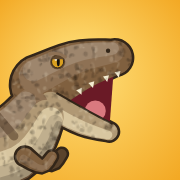
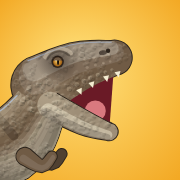
More realistic dinosaurs: natural colours, sculpted shading, skin detail and dinosaur leg anatomy
Claude-Session: https://claude.ai/code/session_01VZZ5QiPWKQFCNGsoWHmeoG

Changed region(s): [[0.0, 0.1944, 0.75, 1.0]]

diff --git a/index.html b/index.html
@@ -393,6 +393,13 @@ function pose(sp, a) {
     let fx = L.hip[0] + L.fo + Math.cos(ph) * L.stride * a.amp, fy = -Math.max(0, -Math.sin(ph)) * L.lift * a.amp - L.r[2];
     if (kck && L.hip[0] > hipx + 4) { fx += kck * 38; fy -= kck * 34; }
     if (a.held) { fx = L.hip[0] + L.fo + Math.sin(a.time * 10 + L.ph) * 8; fy = 5 - L.r[2]; }
+    if (SHADE3D && sp.near.length === 1 && !a.held && !sp.fly) {
+      const mt = L.l2 * 0.62, ax = fx - mt * 0.4, ay = fy - mt * 0.9, kk = ik(L.hip[0], hy2, L.l1 * 0.92, L.l2 * 0.8, ax, ay, L.bend);
+      return {
+        limb: catmull([[L.hip[0], hy2, L.r[0] * 1.18], [kk[0], kk[1], L.r[1] * 0.95], [kk[2], kk[3], L.r[2] * 0.72], [fx, fy, L.r[2] * 0.62]], 4),
+        foot: [[fx, fy, L.r[2] * 0.62], [fx + L.foot * 0.85, fy + L.r[2] * 0.3, L.r[2] * 0.42]]
+      };
+    }
     const k = ik(L.hip[0], hy2, L.l1, L.l2, fx, fy, L.bend);
     return {
       limb: catmull([[L.hip[0], hy2, L.r[0]], [k[0], k[1], L.r[1]], [k[2], k[3], L.r[2]]], 4),
@@ -413,7 +420,102 @@ function mix(h1, h2, t) { const a = parseInt(h1.slice(1), 16), b = parseInt(h2.s
 // a small tile of mottled speckles, stamped over the skin when a dinosaur is big enough on screen to show it
 const skinTex = (() => { const c = document.createElement('canvas'); c.width = c.height = 72; const x = c.getContext('2d'), R = mulberry(9); for (let i = 0; i < 250; i++) { x.fillStyle = R() < 0.62 ? 'rgba(20,14,8,' + (0.1 + R() * 0.17) + ')' : 'rgba(255,248,225,' + (0.08 + R() * 0.12) + ')'; x.beginPath(); x.ellipse(R() * 72, R() * 72, 0.8 + R() * 2.2, 0.6 + R() * 1.6, R() * 3, 0, TAU); x.fill(); } return c; })();
 const skinPat = new WeakMap();
+/* sculpted look: soft rounded light and shadow across every body part, a cool rim light, shadow where limbs meet the body, and embossed scales */
+let SHADE3D = true;
+const scaleTex = (() => { const c = document.createElement('canvas'); c.width = c.height = 56; const x = c.getContext('2d'), R = mulberry(21);
+  for (let i = 0; i < 160; i++) { const px = R() * 56, py = R() * 56, r = 1.1 + R() * 1.3; for (const [dx, dy] of [[0, 0], [56, 0], [-56, 0], [0, 56], [0, -56]]) { x.beginPath(); x.arc(px + dx, py + dy, r, Math.PI * 0.85, Math.PI * 1.85); x.strokeStyle = 'rgba(255,250,230,.16)'; x.lineWidth = 0.9; x.stroke(); x.beginPath(); x.arc(px + dx, py + dy, r, Math.PI * 1.85, Math.PI * 2.85); x.strokeStyle = 'rgba(15,10,6,.18)'; x.stroke(); } }
+  return c; })();
+const scalePat = new WeakMap();
+function offT(d, k, rk, i0 = 0, i1 = d.length) { const out = []; for (let i = i0; i < i1; i++) { const p = d[i], nn = nrm(d, i); out.push([p[0] + nn[0] * p[2] * k, p[1] + nn[1] * p[2] * k, Math.max(0.5, p[2] * rk)]); } return out; }
+function softVolume(ctx, t, top, i0 = 0) {   // layered translucent bands: bright on the lit side, deep shadow on the far side
+  if (t.length < 3) return;
+  for (let b = 0; b < 12; b++) {
+    const k = -0.94 + b * (1.88 / 11), lt = Math.pow(Math.max(0, -k - 0.05), 1.3) * 0.26, dk = Math.pow(Math.max(0, k - 0.1), 1.25) * 0.3;
+    if (lt > 0.01) fillTubes(ctx, [offT(t, top ? k : -k, 0.17, i0)], 0, 'rgba(255,244,214,' + lt.toFixed(3) + ')');
+    if (dk > 0.01) fillTubes(ctx, [offT(t, top ? k : -k, 0.17, i0)], 0, 'rgba(16,11,7,' + dk.toFixed(3) + ')');
+  }
+}
+function rimLight(ctx, t, i0, i1, w, col) { ctx.beginPath(); for (let i = i0; i < i1; i++) { const p = t[i], nn = nrm(t, i), x = p[0] - nn[0] * p[2] * 0.93, y = p[1] - nn[1] * p[2] * 0.93; i > i0 ? ctx.lineTo(x, y) : ctx.moveTo(x, y); } ctx.strokeStyle = col; ctx.lineWidth = w; ctx.lineCap = 'round'; ctx.lineJoin = 'round'; ctx.stroke(); }
+function fold(ctx, p, nn, k0, k1, r, bend, w) {   // one skin crease across a body part, pressed in with a pale edge beside it
+  const tx = nn[1], ty = -nn[0], x0 = p[0] + nn[0] * r * k0, y0 = p[1] + nn[1] * r * k0, x1 = p[0] + nn[0] * r * k1, y1 = p[1] + nn[1] * r * k1, mx = (x0 + x1) / 2 + tx * r * bend, my = (y0 + y1) / 2 + ty * r * bend;
+  ctx.lineCap = 'round'; ctx.lineWidth = w;
+  ctx.strokeStyle = 'rgba(20,13,8,.28)'; ctx.beginPath(); ctx.moveTo(x0, y0); ctx.quadraticCurveTo(mx, my, x1, y1); ctx.stroke();
+  ctx.strokeStyle = 'rgba(255,240,210,.16)'; ctx.beginPath(); ctx.moveTo(x0 + tx * w * 1.3, y0 + ty * w * 1.3); ctx.quadraticCurveTo(mx + tx * w * 1.3, my + ty * w * 1.3, x1 + tx * w * 1.3, y1 + ty * w * 1.3); ctx.stroke();
+}
+function drawClaws(ctx, legs) {
+  for (const L of legs) { const f = L.foot[1], r = f[2];
+    for (let k = 0; k < 3; k++) { const x = f[0] + r * 0.82 - k * r * 0.6, y = f[1] + r * 0.45; ctx.beginPath(); ctx.moveTo(x - r * 0.2, y - r * 0.16); ctx.quadraticCurveTo(x + r * 0.32, y - r * 0.08, x + r * 0.42, y + r * 0.42); ctx.quadraticCurveTo(x + r * 0.05, y + r * 0.3, x - r * 0.14, y + r * 0.22); ctx.closePath(); ctx.fillStyle = '#2b241d'; ctx.fill(); ctx.strokeStyle = 'rgba(255,240,220,.35)'; ctx.lineWidth = Math.max(0.5, r * 0.06); ctx.beginPath(); ctx.moveTo(x - r * 0.08, y - r * 0.1); ctx.quadraticCurveTo(x + r * 0.22, y - r * 0.04, x + r * 0.3, y + r * 0.22); ctx.stroke(); } }
+}
+function sculptDetail(ctx, sp, g, a) {
+  const d = g.dense, n = d.length, tN = Math.min(n - 1, (sp.tailN || 3) * 6), nN = Math.min(n - 1, sp.neck * 6), sk = g.skullD, jw = g.jawD;
+  if (a.fine === false) return;
+  // creases: rings round the neck, folds under the belly and at the base of the tail
+  ctx.save(); ctx.beginPath(); tube(ctx, d, 0); ctx.clip();
+  let rMax = 0; for (const q of d) rMax = Math.max(rMax, q[2]);
+  for (let i = Math.max(nN - 4, 1); i < n - 3; i += 2) { const p = d[i], r = p[2]; if (r < 2.5 || r > rMax * 0.62) continue; fold(ctx, p, nrm(d, i), -0.35, 0.95, r, 0.18, Math.max(0.5, r * 0.05)); }
+  for (let i = Math.round(tN + (nN - tN) * 0.25); i < nN; i += 4) { const p = d[i], r = p[2]; if (r < 3) continue; fold(ctx, p, nrm(d, i), 0.6, 0.98, r, -0.25, Math.max(0.5, r * 0.035)); }
+  for (let i = Math.max(1, tN - 6); i < tN + 2; i += 3) { const p = d[i], r = p[2]; if (r < 2.5 || r > rMax * 0.5) continue; fold(ctx, p, nrm(d, i), -0.7, 0.9, r, 0.22, Math.max(0.5, r * 0.035)); }
+  ctx.restore();
+  // a row of bony scutes along the spine
+  if (!sp.swim) for (let i = Math.round(tN * 0.4); i < n - 2; i += 3) {
+    const p = d[i], r = p[2], nn = nrm(d, i), sz = clamp(r * 0.055, 0.6, 2.2); if (r < 3) continue;
+    const x = p[0] - nn[0] * r * 0.9, y = p[1] - nn[1] * r * 0.9, gr = ctx.createRadialGradient(x - sz * 0.3, y - sz * 0.4, 0, x, y, sz * 1.2);
+    gr.addColorStop(0, 'rgba(255,246,225,.22)'); gr.addColorStop(0.6, 'rgba(90,70,45,.12)'); gr.addColorStop(1, 'rgba(20,14,8,.3)'); ctx.fillStyle = gr; ctx.beginPath(); ctx.ellipse(x, y, sz * 1.25, sz, Math.atan2(nn[0], -nn[1]), 0, TAU); ctx.fill();
+  }
+  // head: jaw muscle, sunken eye socket with a brow ridge, nostril, and a row of lip scales
+  const e = g.H(sp.eye[0], sp.eye[1]), er = sp.eye[2] * g.hk * (a.eyeK || 1);
+  ctx.save(); ctx.beginPath(); tube(ctx, sk, 0); tube(ctx, jw, 0); ctx.clip();
+  const h = g.Hh, hr = sk[Math.floor(sk.length * 0.25)][2], jm = ctx.createRadialGradient(h[0] + hr * 0.2, h[1] - hr * 0.3, 0, h[0], h[1], hr * 1.3); jm.addColorStop(0, 'rgba(255,240,210,.2)'); jm.addColorStop(1, 'rgba(255,240,210,0)'); ctx.fillStyle = jm; ctx.fillRect(h[0] - hr * 1.4, h[1] - hr * 1.4, hr * 2.8, hr * 2.8);
+  const so = ctx.createRadialGradient(e[0], e[1], er * 0.6, e[0], e[1], er * 2.3); so.addColorStop(0, 'rgba(20,12,8,.35)'); so.addColorStop(1, 'rgba(20,12,8,0)'); ctx.fillStyle = so; ctx.fillRect(e[0] - er * 2.4, e[1] - er * 2.4, er * 4.8, er * 4.8);
+  ctx.lineCap = 'round'; ctx.lineWidth = Math.max(0.8, er * 0.45); ctx.strokeStyle = 'rgba(255,240,210,.32)'; ctx.beginPath(); ctx.arc(e[0] + er * 0.2, e[1] + er * 0.3, er * 1.75, Math.PI * 1.15, Math.PI * 1.75); ctx.stroke();
+  ctx.lineWidth = Math.max(0.6, er * 0.25); ctx.strokeStyle = 'rgba(20,12,8,.3)'; ctx.beginPath(); ctx.arc(e[0] + er * 0.2, e[1] + er * 0.3, er * 1.45, Math.PI * 1.15, Math.PI * 1.75); ctx.stroke();
+  const ln = sk.length, tip = sk[ln - 2], tn = nrm(sk, ln - 2), nx = tip[0] - tn[0] * tip[2] * 0.4 - tn[1] * tip[2] * 0.3, ny = tip[1] - tn[1] * tip[2] * 0.4 + tn[0] * tip[2] * 0.3;
+  ctx.fillStyle = 'rgba(20,12,8,.5)'; ctx.beginPath(); ctx.ellipse(nx, ny, Math.max(0.6, tip[2] * 0.22), Math.max(0.4, tip[2] * 0.13), Math.atan2(tn[0], -tn[1]), 0, TAU); ctx.fill();
+  for (let i = Math.floor(ln * 0.3); i < ln - 1; i += 1) { const p = sk[i], nn = nrm(sk, i), x = p[0] + nn[0] * p[2] * 0.62, y = p[1] + nn[1] * p[2] * 0.62, sz = Math.max(0.5, p[2] * 0.09); ctx.fillStyle = 'rgba(255,240,210,.22)'; circ(ctx, x, y, sz); ctx.fill(); ctx.fillStyle = 'rgba(20,12,8,.22)'; circ(ctx, x + sz * 0.5, y + sz * 0.5, sz * 0.7); ctx.fill(); }
+  for (let i = Math.floor(ln * 0.55); i < ln - 1; i += 1) { const p = sk[i], nn = nrm(sk, i); for (const k of [-0.2, 0.15]) { const x = p[0] + nn[0] * p[2] * k, y = p[1] + nn[1] * p[2] * k, sz = Math.max(0.4, p[2] * 0.07); ctx.fillStyle = 'rgba(255,240,210,.18)'; circ(ctx, x, y, sz); ctx.fill(); } }
+  ctx.restore();
+}
+function sculptBody(ctx, sp, g, a) {
+  const d = g.dense, n = d.length, sk = g.skullD, jw = g.jawD;
+  ctx.save(); ctx.beginPath(); tube(ctx, d, 0); ctx.clip();
+  softVolume(ctx, d, true, Math.floor(n * 0.02));
+  for (const L of g.near) { const h = L.limb[0], r = Math.max(6, h[2] * 1.5), gr = ctx.createRadialGradient(h[0], h[1] + r * 0.2, r * 0.2, h[0], h[1] + r * 0.2, r * 1.3); gr.addColorStop(0, 'rgba(15,10,6,.22)'); gr.addColorStop(1, 'rgba(15,10,6,0)'); ctx.fillStyle = gr; ctx.fillRect(h[0] - r * 1.4, h[1] - r * 1.2, r * 2.8, r * 2.8); }
+  if (a.tex) { let p = scalePat.get(ctx); if (!p) { p = ctx.createPattern(scaleTex, 'repeat'); scalePat.set(ctx, p); } const b = sp.box; ctx.fillStyle = p; ctx.fillRect(b[0] - 260, b[1] - 260, b[2] - b[0] + 520, b[3] - b[1] + 520); }
+  fillTubes(ctx, [offT(d, -0.62, 0.1, Math.floor(n * 0.3), Math.floor(n * 0.7))], 0, 'rgba(255,255,255,.1)');   // a soft sheen along the back
+  rimLight(ctx, d, Math.floor(n * 0.04), n, Math.max(1.2, a.ow * 0.9), 'rgba(185,215,255,.55)');
+  ctx.restore();
+  ctx.save(); ctx.beginPath(); tube(ctx, sk, 0); tube(ctx, jw, 0); ctx.clip();
+  fillTubes(ctx, [offT(sk, -0.7, 0.32), offT(sk, -0.48, 0.3)], 0, 'rgba(255,246,220,.12)'); fillTubes(ctx, [offT(jw, 0.7, 0.4)], 0, 'rgba(18,12,8,.2)');
+  if (a.tex) { ctx.fillStyle = scalePat.get(ctx) || ctx.createPattern(scaleTex, 'repeat'); const b = sp.box; ctx.fillRect(b[0] - 260, b[1] - 260, b[2] - b[0] + 520, b[3] - b[1] + 520); }
+  rimLight(ctx, sk, 0, sk.length, Math.max(1, a.ow * 0.8), 'rgba(185,215,255,.5)');
+  ctx.restore();
+  sculptDetail(ctx, sp, g, a);
+}
+function sculptLimbs(ctx, sp, g, a, list) {
+  for (const L of list) {
+    ctx.save(); ctx.beginPath(); tube(ctx, L.limb, 0); tube(ctx, L.foot, 0); ctx.clip();
+    softVolume(ctx, L.limb, false);
+    const t = L.limb[1] || L.limb[0], gr = ctx.createRadialGradient(t[0] - t[2] * 0.3, t[1] - t[2] * 0.4, 0, t[0], t[1], t[2] * 1.6); gr.addColorStop(0, 'rgba(255,246,220,.18)'); gr.addColorStop(1, 'rgba(255,246,220,0)'); ctx.fillStyle = gr; ctx.beginPath(); ctx.arc(t[0], t[1], t[2] * 1.6, 0, TAU); ctx.fill();   // the round of the thigh muscle
+    if (a.fine !== false) { const lb = L.limb, m = Math.floor(lb.length / 2); for (const i of [m - 1, m, m + 1, lb.length - 2, lb.length - 1]) { const q = lb[Math.max(0, Math.min(lb.length - 1, i))]; fold(ctx, q, nrm(lb, Math.max(0, Math.min(lb.length - 1, i))), -0.85, 0.85, q[2], 0.25, Math.max(0.5, q[2] * 0.07)); }
+      const t0 = lb[0], t1 = lb[m]; ctx.strokeStyle = 'rgba(20,13,8,.22)'; ctx.lineWidth = Math.max(0.6, t0[2] * 0.06); ctx.beginPath(); ctx.moveTo(t0[0] + t0[2] * 0.3, t0[1] - t0[2] * 0.4); ctx.quadraticCurveTo((t0[0] + t1[0]) / 2 + t0[2] * 0.55, (t0[1] + t1[1]) / 2, t1[0] + t1[2] * 0.2, t1[1] - t1[2] * 0.2); ctx.stroke(); }
+    const f = L.foot[0], fg = ctx.createLinearGradient(0, f[1] - f[2], 0, f[1] + f[2]); fg.addColorStop(0, 'rgba(18,12,8,0)'); fg.addColorStop(1, 'rgba(18,12,8,.25)'); ctx.fillStyle = fg; ctx.fillRect(f[0] - f[2] * 3, f[1] - f[2], f[2] * 6, f[2] * 2.2);
+    if (a.tex) { ctx.fillStyle = scalePat.get(ctx) || ctx.createPattern(scaleTex, 'repeat'); const b = sp.box; ctx.fillRect(b[0] - 260, b[1] - 260, b[2] - b[0] + 520, b[3] - b[1] + 520); }
+    ctx.restore();
+  }
+}
 function drawEye(ctx, x, y, r, a, sp) {
+  if (SHADE3D) {
+    r *= 0.5; const c = sp.c;
+    circ(ctx, x, y, r * 1.35); ctx.fillStyle = 'rgba(25,16,10,.75)'; ctx.fill();
+    if (a.blink) { ctx.strokeStyle = 'rgba(25,16,10,.9)'; ctx.lineWidth = Math.max(0.6, r * 0.25); ctx.beginPath(); ctx.moveTo(x - r, y); ctx.lineTo(x + r, y); ctx.stroke(); return; }
+    const ir = ctx.createRadialGradient(x - r * 0.25, y - r * 0.25, r * 0.1, x, y, r); ir.addColorStop(0, sp.fierce ? '#f2c25a' : '#c08a3c'); ir.addColorStop(1, sp.fierce ? '#9a5a10' : '#5a3a1a');
+    circ(ctx, x, y, r); ctx.fillStyle = ir; ctx.fill();
+    const px = x + a.lx * r * 0.18, py = y + a.ly * r * 0.18; ctx.fillStyle = '#0c0907'; ctx.beginPath(); if (sp.fierce) ctx.ellipse(px, py, r * 0.2, r * 0.72, 0, 0, TAU); else ctx.arc(px, py, r * 0.42, 0, TAU); ctx.fill();
+    circ(ctx, x - r * 0.35, y - r * 0.35, r * 0.18); ctx.fillStyle = 'rgba(255,255,255,.85)'; ctx.fill();
+    ctx.beginPath(); ctx.arc(x, y, r * 1.06, Math.PI * (a.sad ? 0.98 : 1.08), Math.PI * (a.sad ? 2.02 : 1.92)); ctx.closePath(); ctx.fillStyle = c.base; ctx.fill();   // heavy upper lid
+    ctx.strokeStyle = 'rgba(25,16,10,.7)'; ctx.lineWidth = Math.max(0.5, r * 0.18); ctx.beginPath(); ctx.arc(x, y, r * 1.06, Math.PI * (a.sad ? 0.98 : 1.08), Math.PI * (a.sad ? 2.02 : 1.92)); ctx.stroke();
+    return;
+  }
   r *= 0.66; const c = sp.c;
   circ(ctx, x, y, r * 1.24); ctx.fillStyle = c.lo; ctx.fill();
   if (a.blink) { circ(ctx, x, y, r); ctx.fillStyle = c.lo; ctx.fill(); ctx.strokeStyle = c.line; ctx.lineWidth = Math.max(0.8, r * 0.2); ctx.beginPath(); ctx.moveTo(x - r * 0.9, y + r * 0.1); ctx.lineTo(x + r * 0.9, y + r * 0.1); ctx.stroke(); }
@@ -425,9 +527,16 @@ function drawEye(ctx, x, y, r, a, sp) {
   }
   ctx.lineCap = 'round'; ctx.strokeStyle = c.h1; ctx.lineWidth = r * 0.5; ctx.beginPath(); ctx.moveTo(x - r * 1.3, y - r * 1.25); ctx.quadraticCurveTo(x, y - r * 1.65, x + r * 1.25, y - r * (sp.fierce && !a.sad ? 0.8 : 1.15)); ctx.stroke();
 }
-function drawDino(ctx, sp, a) {
-  const c = sp.c; a.line = c.line; a.ow *= 0.8;
-  const g = pose(sp, a), ow = a.ow, soft = !Q, fine = soft && a.fine !== false;   // the finest shading layers are skipped when a dinosaur is small on screen
+const realCols = new WeakMap();
+function desat(col) {
+  let r, g, b; if (col[0] === '#') { const n = parseInt(col.slice(1), 16); r = n >> 16; g = n >> 8 & 255; b = n & 255; } else { const m = col.match(/[\d.]+/g); if (!m) return col; [r, g, b] = m.map(Number); }
+  const L = 0.3 * r + 0.59 * g + 0.11 * b, k = 0.3; r = (r + (L - r) * k) * 0.93; g = (g + (L - g) * k) * 0.93; b = (b + (L - b) * k) * 0.93; const h2 = v => Math.max(0, Math.min(255, Math.round(v))).toString(16).padStart(2, '0'); return '#' + h2(r) + h2(g) + h2(b);   // hex, so other colour helpers can keep mixing it
+}
+function realC(sp) { let o = realCols.get(sp); if (!o) { o = {}; for (const k in sp.c) o[k] = typeof sp.c[k] === 'string' ? desat(sp.c[k]) : sp.c[k]; realCols.set(sp, o); } return o; }
+function drawDino(ctx, sp, a) { if (!SHADE3D) return drawDino0(ctx, sp, a); const keep = sp.c; sp.c = realC(sp); try { drawDino0(ctx, sp, a); } finally { sp.c = keep; } }
+function drawDino0(ctx, sp, a) {
+  const c = sp.c; a.line = c.line; a.ow *= SHADE3D && a.fine !== false ? 0.3 : 0.8;   // sculpted bodies need only a fine edge
+  const g = pose(sp, a), ow = a.ow, soft = !Q || !!a.closeUp, fine = soft && a.fine !== false;   // close-ups always get full detail   // the finest shading layers are skipped when a dinosaur is small on screen
   const off = (d, k, rk, i0 = 0) => { const out = []; for (let i = i0; i < d.length; i++) { const p = d[i], nn = nrm(d, i); out.push([p[0] + nn[0] * p[2] * k, p[1] + nn[1] * p[2] * k, Math.max(0.6, p[2] * rk)]); } return out; };
   const far = []; for (const L of g.far) far.push(L.limb, L.foot);
   if (g.farArm) far.push(g.farArm);
@@ -445,10 +554,14 @@ function drawDino(ctx, sp, a) {
   fillTubes(ctx, [d], 0, c.base); headFill();
   // light from above: two soft bands along the back, a pale underside, and shadow where the body turns under
   const t0 = Math.floor(n * 0.07), b0 = Math.floor(n * (sp.belly0 || 0.1));
+  if (SHADE3D && fine) { ctx.save(); ctx.beginPath(); tube(ctx, d, 0); ctx.clip(); for (const [k, al] of [[0.18, 0.18], [0.3, 0.28], [0.42, 0.4], [0.55, 0.55], [0.68, 0.7], [0.82, 0.8], [0.95, 0.85]]) { ctx.globalAlpha = al; fillTubes(ctx, [off(d, k, 0.2, b0)], 0, c.belly); } ctx.globalAlpha = 1; ctx.restore(); }
+  else {
   if (soft) fillTubes(ctx, [off(d, -0.32, 0.6, t0)], 0, c.h1); if (fine) fillTubes(ctx, [off(d, -0.55, 0.36, t0)], 0, c.hi);
   fillTubes(ctx, [off(d, 0.36, 0.6, b0)], 0, c.mid); fillTubes(ctx, [off(d, 0.53, 0.43, b0)], 0, c.belly);
   if (fine) fillTubes(ctx, [off(d, 0.72, 0.27, b0)], 0, 'rgba(34,26,20,.13)'); if (soft) fillTubes(ctx, [off(d, 0.87, 0.14, b0)], 0, 'rgba(34,26,20,.2)');
+  }
   if (sp.marks) sp.marks(ctx, g, sp, a);
+  if (SHADE3D && fine) sculptBody(ctx, sp, g, a);
   if (sp.mid) { sp.mid(ctx, g, sp, a); fillTubes(ctx, [sk, jw], ow, c.line); mouthIn(); headFill(); }
   ctx.strokeStyle = c.line; ctx.lineWidth = Math.max(0.8, ow * 0.8); ctx.lineCap = 'round'; ctx.beginPath();
   for (let i = 0; i < jw.length; i++) { const p = jw[i], nn = nrm(jw, i), x = p[0] - nn[0] * p[2], y = p[1] - nn[1] * p[2]; i ? ctx.lineTo(x, y) : ctx.moveTo(x, y); }
@@ -465,11 +578,11 @@ function drawDino(ctx, sp, a) {
   const near = []; for (const L of g.near) near.push(L.limb, L.foot);
   if (near.length) {
     fillTubes(ctx, near, ow, c.line); fillTubes(ctx, near, 0, c.base);
-    if (soft) fillTubes(ctx, g.near.map(L => off(L.limb, 0.34, 0.44)), 0, c.h1); if (fine) fillTubes(ctx, g.near.map(L => off(L.limb, -0.6, 0.26)), 0, 'rgba(34,26,20,.16)');
-    ctx.fillStyle = '#3d352c';
-    for (const L of g.near) { const f = L.foot[1], r = f[2]; for (let k = 0; k < 3; k++) { circ(ctx, f[0] + r * 0.7 - k * r * 0.62, f[1] + r * 0.62, r * 0.2); ctx.fill(); } }
+    if (SHADE3D && fine) sculptLimbs(ctx, sp, g, a, g.near); else { if (soft) fillTubes(ctx, g.near.map(L => off(L.limb, 0.34, 0.44)), 0, c.h1); if (fine) fillTubes(ctx, g.near.map(L => off(L.limb, -0.6, 0.26)), 0, 'rgba(34,26,20,.16)'); }
+    if (SHADE3D && fine) drawClaws(ctx, g.near); else { ctx.fillStyle = '#3d352c';
+    for (const L of g.near) { const f = L.foot[1], r = f[2]; for (let k = 0; k < 3; k++) { circ(ctx, f[0] + r * 0.7 - k * r * 0.62, f[1] + r * 0.62, r * 0.2); ctx.fill(); } } }
   }
-  if (a.tex && soft) {
+  if (a.tex && soft && !(SHADE3D && fine)) {
     let p = skinPat.get(ctx); if (!p) { p = ctx.createPattern(skinTex, 'repeat'); skinPat.set(ctx, p); }
     ctx.save(); ctx.beginPath(); tube(ctx, d, 0); tube(ctx, sk, 0); tube(ctx, jw, 0); for (const t of near) tube(ctx, t, 0); if (g.arm) tube(ctx, g.arm, 0); ctx.clip();
     const b = sp.box; ctx.fillStyle = p; ctx.fillRect(b[0] - 260, b[1] - 260, b[2] - b[0] + 520, b[3] - b[1] + 520); ctx.restore();
@@ -2054,7 +2167,7 @@ function drawCareDino(x, G, mudA) {
   const n = needsOf(e); CA.time = c.t + e.seed; CA.walk = 0.9; CA.amp = 0; CA.jaw = c.jaw; CA.nod = c.nod; CA.pitch = c.pitch; CA.held = false; CA.flap = c.flap; CA.blink = c.blinkT < 0; CA.sad = !c.act && (n.hungry || n.bored || n.dirty || n.hurt || n.home);
   CA.headK = 1 + (1 - e.gk) * 0.6; CA.eyeK = 1 + (1 - e.gk) * 0.5; CA.ow = clamp(4.2 / s, 1.5, 9);
   let lx = 0.5, ly = 0; if (c.ptr) { const dx = c.ptr[0] - (G.ox + d.eye[0] * s), dy = c.ptr[1] - (G.oy + d.eye[1] * s), m = Math.hypot(dx, dy) || 1; lx = dx / m; ly = dy / m; } else if (c.food) { lx = 0.6; ly = 0.6; }
-  CA.lx = lx; CA.ly = ly; CA.tex = true; if (d.fly) x.translate(0, -16);
+  CA.lx = lx; CA.ly = ly; CA.tex = true; CA.closeUp = true; if (d.fly) x.translate(0, -16);
   drawDino(x, d, CA); if (e.bandT > 0) bandOn(x, G.box);
   if (x === octx) { const b = G.box, lg = x.createLinearGradient(0, b[1], 0, b[3]); lg.addColorStop(0, 'rgba(255,248,220,.2)'); lg.addColorStop(0.42, 'rgba(255,255,255,0)'); lg.addColorStop(1, 'rgba(24,16,30,.3)'); x.globalCompositeOperation = 'source-atop'; x.fillStyle = lg; x.fillRect(b[0] - 300, b[1] - 300, b[2] - b[0] + 600, b[3] - b[1] + 600); x.globalCompositeOperation = 'source-over'; }
   if (mudA > 0.02) { x.globalCompositeOperation = 'source-atop'; for (const m of c.mud) { x.fillStyle = 'rgba(104,72,40,' + (0.9 * mudA) + ')'; circ(x, m[0], m[1], m[2]); x.fill(); circ(x, m[0] + Math.cos(m[3]) * m[2] * 1.2, m[1] + Math.sin(m[3]) * m[2] * 0.9, m[2] * 0.45); x.fill(); x.fillStyle = 'rgba(70,46,24,' + (0.5 * mudA) + ')'; circ(x, m[0] + m[2] * 0.2, m[1] + m[2] * 0.25, m[2] * 0.5); x.fill(); } x.globalCompositeOperation = 'source-over'; }
@@ -2096,7 +2209,7 @@ homeBtn.addEventListener('click', () => {   // show the five habitats to choose 
 });
 envRow.querySelectorAll('button').forEach(b => b.addEventListener('click', () => {
   const c = care; if (!c) return; const e = c.e, pad = e.pad, env = b.dataset.env, G = careGeo(), mid = [G.ox + (G.box[0] + G.box[2]) / 2 * G.s, G.oy + (G.box[1] + G.box[3]) / 2 * G.s];
-  const before = pad.dinos.map(d => homeOk(d)); pad.env = env; dirty(); envRow.hidden = true; document.getElementById('careBar').hidden = false; paintHome();
+  const before = pad.dinos.map(d => homeOk(d)); pad.env = env; dirty(); envRow.hidden = true; document.getElementById('careBar').hidden = false; sizeCare();
   pad.dinos.forEach((d, i) => { if (!before[i] && homeOk(d)) d.needIn = gapOf(d); });
   cpuff(W / 2, H * 0.55, 'circle', 26, { cols: ['rgba(255,255,255,.9)', ENVS[env].pad], v0: 120, v1: 420, s0: 8, s1: 18, t0: 0.5, t1: 0.9, grow: 1, r: W * 0.3 });
   if (homeOk(e) && env === prefOf(e)) { c.hop = 0.45; sfx.grow(); say(e.def.name + ' loves the ' + ENVS[env].name.toLowerCase()); cpuff(mid[0], G.oy + G.box[1] * G.s, 'heart', 8, { col: '#f06292', an: -Math.PI / 2, spread: 1.6, v0: 80, v1: 170, s0: 14, s1: 22, t0: 1, t1: 1.6, r: 60 }); cpuff(mid[0], mid[1], 'star', 18, { cols: ['#ffd95a', '#fff6dc', '#ffb01f'], v0: 140, v1: 420, s0: 10, s1: 18, t0: 0.6, t1: 1.1 }); }
@@ -2421,7 +2534,7 @@ function drawFighter(x, F, sx) {
   const tl = F.tilt + F.lean * (F.flip < 0 ? -1 : 1);
   if (tl) { const py = d.swim || d.fly ? (F.box[1] + F.box[3]) / 2 : F.box[3]; x.translate(F.mid, py); x.rotate(tl); x.translate(-F.mid, -py); }
   DA.time = D.t + e.seed; DA.walk = F.walk; DA.amp = F.amp; DA.jaw = F.jaw; DA.nod = F.nod; DA.pitch = F.pitch; DA.held = false; DA.flap = F.flap; DA.blink = F.blinkT < 0 || F.asleep > 0; DA.sad = F.dizzy > 0 || F.asleep > 0 || F.hp <= HPMAX * 0.25 || !!F.e.hurt;
-  DA.headK = 1 + (1 - e.gk) * 0.6; DA.eyeK = 1 + (1 - e.gk) * 0.5; DA.ow = clamp(4.2 / s, 1.5, 9); DA.lx = 0.8; DA.ly = 0; DA.tex = true; DA.reach = F.reach; DA.swipe = F.swipe; DA.kick = F.kick; DA.tail = F.tail;
+  DA.headK = 1 + (1 - e.gk) * 0.6; DA.eyeK = 1 + (1 - e.gk) * 0.5; DA.ow = clamp(4.2 / s, 1.5, 9); DA.lx = 0.8; DA.ly = 0; DA.tex = true; DA.closeUp = true; DA.reach = F.reach; DA.swipe = F.swipe; DA.kick = F.kick; DA.tail = F.tail;
   if (d.fly) x.translate(0, -16);
   drawDino(x, d, DA); if (e.bandT > 0) bandOn(x, F.box);
   const b = F.box, lg = x.createLinearGradient(0, b[1], 0, b[3]); lg.addColorStop(0, 'rgba(255,248,220,.2)'); lg.addColorStop(0.42, 'rgba(255,255,255,0)'); lg.addColorStop(1, 'rgba(24,16,30,.3)');
@@ -2802,7 +2915,7 @@ function renderChase() {
   const dX = C.dx - cam, hop = !G.air && C.dv > W * 0.05 ? Math.abs(Math.sin(C.walk)) * 6 : 0, dY = G.gy - G.air - hop + (G.air ? Math.sin(C.t * 3) * 8 : 0);
   if (!G.air) { const w = (G.box[2] - G.box[0]) * G.ds; x.drawImage(shadowImg, dX - w * 0.55, G.gy - w * 0.12, w * 1.1, w * 0.28); }
   x.save(); x.translate(dX, dY); if (C.caught) x.rotate(Math.sin(C.t * 22) * 0.04); x.scale(G.ds, G.ds); x.translate(-G.mid, 0); if (C.d.fly) x.translate(0, -16);
-  Object.assign(CHA, { time: C.t + C.e.seed, walk: C.walk, amp: C.caught ? 0 : clamp(C.dv / (W * 0.25), 0, 1), jaw: C.jaw, nod: C.caught ? 0.2 : -0.05, pitch: 0, held: false, flap: C.flap, blink: false, lx: -0.8, ly: 0, sad: C.caught, headK: 1 + (1 - C.e.gk) * 0.6, eyeK: 1 + (1 - C.e.gk) * 0.5, ow: clamp(4 / G.ds, 1.5, 9), tex: true });
+  Object.assign(CHA, { time: C.t + C.e.seed, walk: C.walk, amp: C.caught ? 0 : clamp(C.dv / (W * 0.25), 0, 1), jaw: C.jaw, nod: C.caught ? 0.2 : -0.05, pitch: 0, held: false, flap: C.flap, blink: false, lx: -0.8, ly: 0, sad: C.caught, headK: 1 + (1 - C.e.gk) * 0.6, eyeK: 1 + (1 - C.e.gk) * 0.5, ow: clamp(4 / G.ds, 1.5, 9), tex: true, closeUp: true });
   drawDino(x, C.d, CHA); x.restore();
   // jeep with a ranger
   const jX = C.jx - cam; x.save(); x.translate(jX, G.gy + 2 - (C.jv > 20 ? Math.abs(Math.sin(C.wheel / 30)) * 2 : 0)); x.scale(G.js, G.js); drawThing(x, 'jeep', { ...A0, time: C.t, ow: clamp(3 / G.js, 2, 8), moving: C.jv > 20, cheer: 0, flare: 0, e: null }); x.restore();
@@ -2956,7 +3069,7 @@ function start(data) {
   document.addEventListener('visibilitychange', () => { if (document.hidden) { save(); if (pending && cloud) { cloudT = 0; cloudSave(); } } });
   window.addEventListener('pagehide', save);
 }
-window.__cc = { startEscape, openChase, throwNet, get chase() { return chase; }, set escT(v) { escT = v; }, get dig() { return dig; }, get unlocked() { return unlocked; }, openDig, isLocked, get duel() { return duel; }, get picking() { return picking; }, openDuel, duelDo, setPicking, pickFighter, closeDuel, get Q() { return Q; }, get sync() { return { cloud: !!cloud, pending, edits, stateTs, hadLocal }; }, get placing() { return placing; }, get care() { return care; }, openCare, careDo, objs, dinos, movers, foods, tiles, occ, cam, DEF, drawThing, A0, w2s, g2w, mpos, dpos, pbase, ocenter, serialize };
+window.__cc = { setShade: v => { SHADE3D = !!v; }, get shade() { return SHADE3D; }, startEscape, openChase, throwNet, get chase() { return chase; }, set escT(v) { escT = v; }, get dig() { return dig; }, get unlocked() { return unlocked; }, openDig, isLocked, get duel() { return duel; }, get picking() { return picking; }, openDuel, duelDo, setPicking, pickFighter, closeDuel, get Q() { return Q; }, get sync() { return { cloud: !!cloud, pending, edits, stateTs, hadLocal }; }, get placing() { return placing; }, get care() { return care; }, openCare, careDo, objs, dinos, movers, foods, tiles, occ, cam, DEF, drawThing, A0, w2s, g2w, mpos, dpos, pbase, ocenter, serialize };
 const hot = window.claude && window.claude.hot;
 try { if (hot && hot.snapshot) hot.snapshot(() => serialize()); } catch (e) {}
 if (hot && hot.ready) hot.ready(d => start(d || {})); else start((hot && hot.data) || {});

diff --git a/sw.js b/sw.js
@@ -1,5 +1,5 @@
 // Keeps a copy of the game on the device so it opens without internet. Shows the saved copy at once and refreshes it in the background.
-const CACHE = 'cretaceous-creatures-202610312333';
+const CACHE = 'cretaceous-creatures-202611010006';
 const SHELL = ['./', 'index.html', 'manifest.webmanifest', 'icon-180.png', 'icon-192.png', 'icon-512.png'];
 self.addEventListener('install', e => e.waitUntil(caches.open(CACHE).then(c => c.addAll(SHELL)).then(() => self.skipWaiting())));
 self.addEventListener('activate', e => e.waitUntil(caches.keys().then(ks => Promise.all(ks.filter(k => k !== CACHE).map(k => caches.delete(k)))).then(() => self.clients.claim())));
